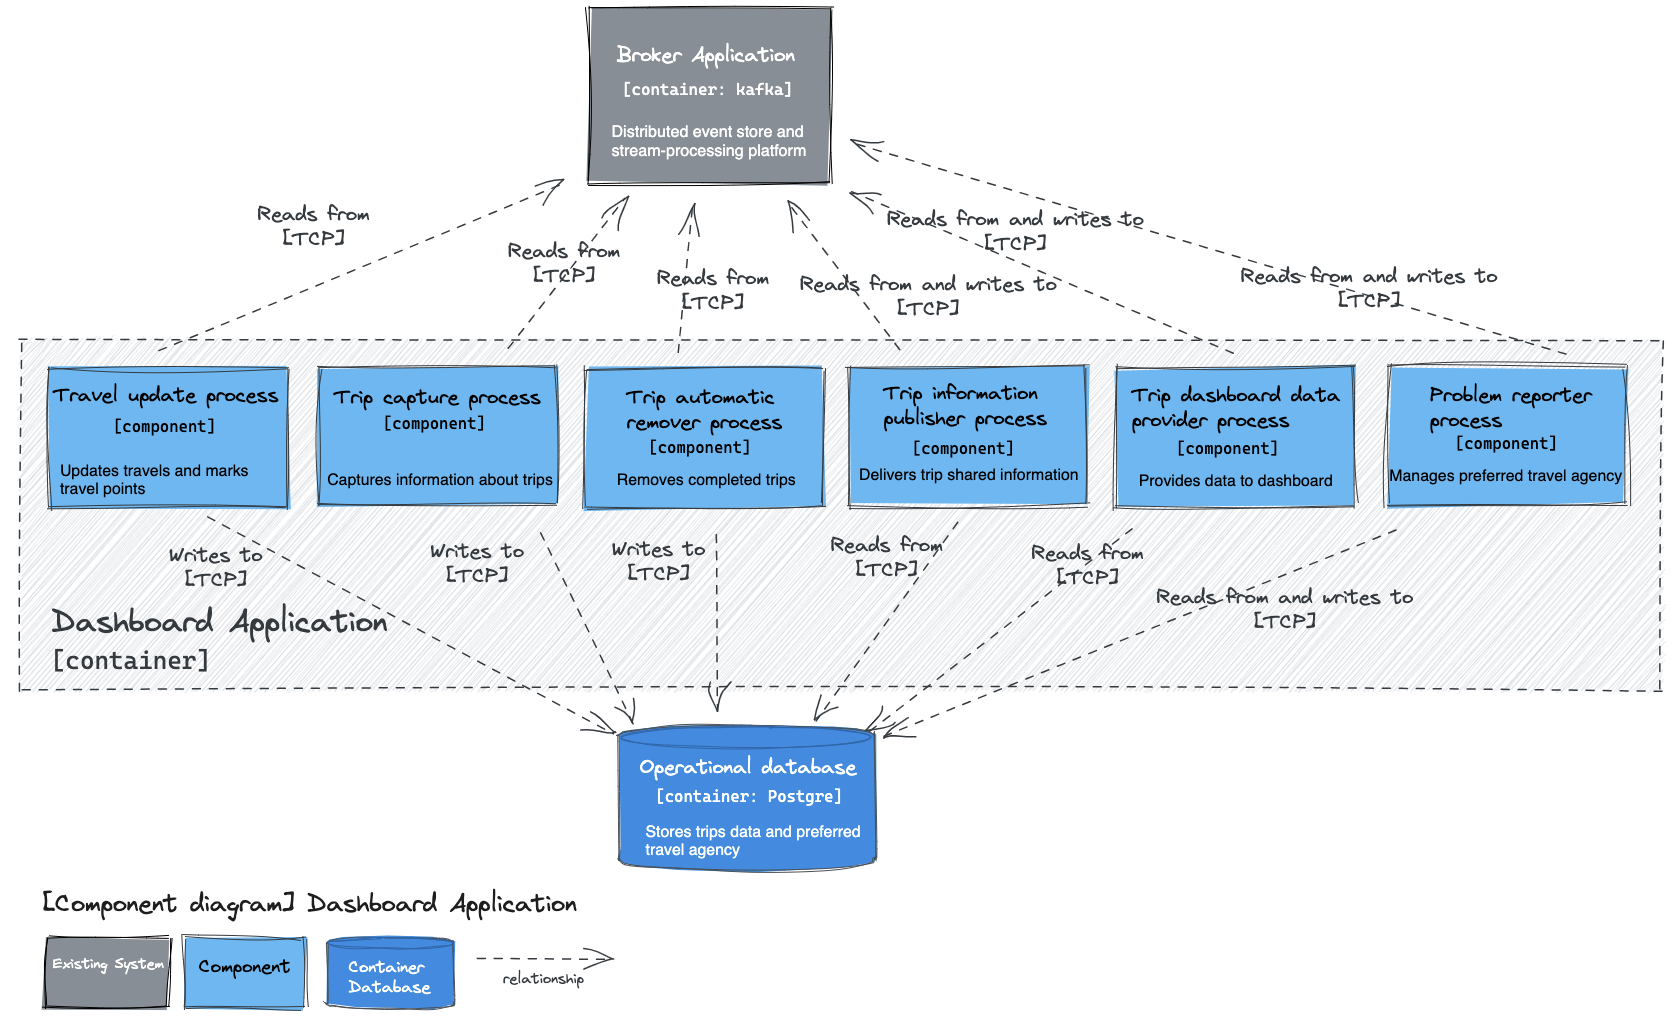
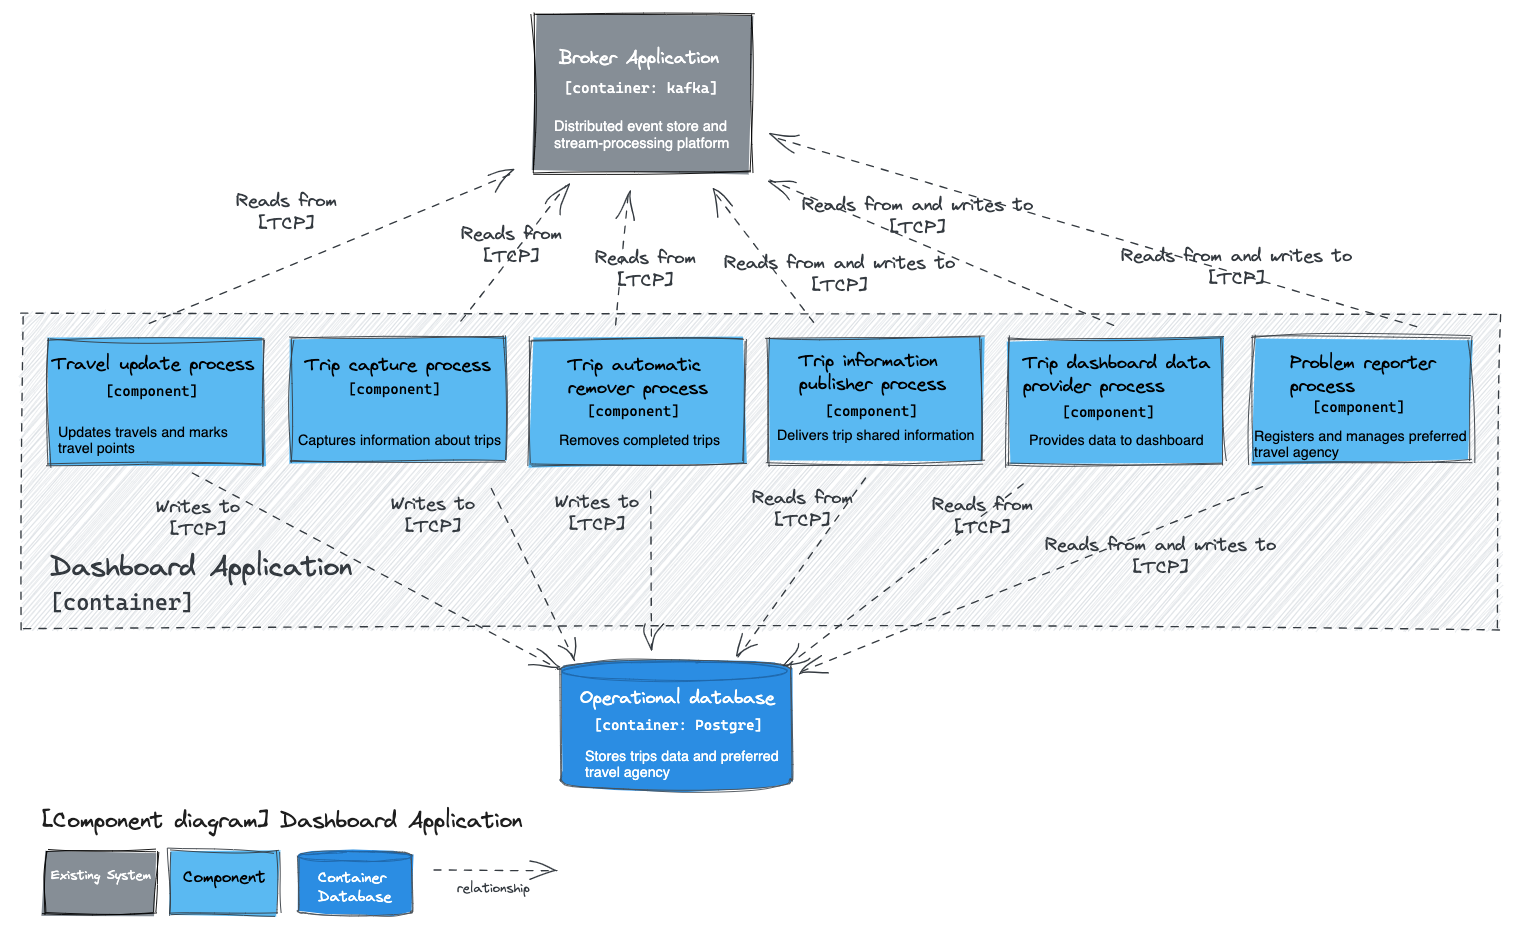
add new ADRs

diff --git a/current/adr/ADR_032_continuous_practices.md b/current/adr/ADR_032_continuous_practices.md
@@ -1,0 +1,53 @@
+# Title
+
+Continuous practices
+
+## Status
+
+**accepted**
+
+## Context
+
+[description of the problem and alternative solutions available (documentation)]
+
+Continuous practices are very important nowadays in software development process.  
+
+**Continuous integration**  
+
+Developers practicing continuous integration merge their changes back to the main branch as often as possible. The developer's changes are validated by creating a build and running automated tests against the build. By doing so, you avoid integration challenges that can happen when waiting for release day to merge changes into the release branch.  
+
+Continuous integration puts a great emphasis on testing automation to check that the application is not broken whenever new commits are integrated into the main branch.  
+
+**Continuous delivery**
+
+It is an extension of continuous integration since it automatically deploys all code changes to a testing and/or production environment after the build stage. On top of automated testing, you have an automated release process and you can deploy your application any time by clicking a button.  
+
+In theory, with continuous delivery, you can decide to release daily, weekly, fortnightly, or whatever suits your business requirements. However, if you truly want to get the benefits of continuous delivery, you should deploy to production as early as possible to make sure that you release small batches that are easy to troubleshoot in case of a problem.  
+
+**Continuous deployment**
+
+Continuous deployment goes one step further than continuous delivery. With this practice, every change that passes all stages of your production pipeline is released to your customers. There's no human intervention, and only a failed test will prevent a new change to be deployed to production.  
+
+Continuous deployment is an excellent way to accelerate the feedback loop with your customers and take pressure off the team as there isn't a "release day" anymore. Developers can focus on building software, and they see their work go live minutes after they've finished working on it.  
+
+Along with continuous integration and continuous delivery (CI/CD), companies need to practice continuous application performance testing to fully realize the benefits of DevOps. Proper instrumentation is crucial to ensuring you are collecting rock-solid metric data, and having a repeatable process for collecting is something that will benefit you regardless of how you are finding correlation.
+
+
+## Decision
+
+We have decided to apply continuous practices to help developers in their day-to-day work and help business to get feedback from end user/customers as fast as possible.  
+
+Agile approach gives the project team a lot of benefits:  
+* increased value proposition - offer an increased value proposition compared to traditional software development methods. It is possible by adding visibility, adaptability of business value and risk throughout the development process,  
+* faster product delivery (faster time to market) - allows products to be rolled out quickly and changes to be easily made at any point during the development process,  
+* flexibility - the incremental nature of Agile software development means that projects are completed in shorter sprints, making them more manageable, which brings flexibility to adopt changes if needed,  
+* risk reduction - prioritize and organize the backlog of stories according to the customer’s vision well in advance,  
+* superior quality - cross-functional and self-organizing teams which share ownership and keep constant communication, which ultimately reduces technical debt, i.e., the cost of the additional rework.
+
+Distributed applications consisting of many elements that are independent execution units require tools supporting the process of continuous building, testing and deployment to achieve high agility of the application development process. Providing small changes more often significantly improves user experience and allows you to test their reactions to new functionalities, which is very valuable in the case of an agile approach.
+
+## Consequences
+
+Requires the use of additional tools and adequate work organization, but the benefits from them are priceless for the project.
+
+[Go back](./README.md)

diff --git a/current/adr/ADR_024_decomposition_analytical_domain.md b/current/adr/ADR_024_decomposition_analytical_domain.md
@@ -1,0 +1,43 @@
+# Title
+
+Analytical domain
+
+## Status
+
+**accepted**
+
+## Context
+
+Separation of concerns is a principle used in programming to separate an application into units, with minimal overlapping between the functions of the individual units. The separation of concerns is achieved using modularization, encapsulation and arrangement in software layers.  
+
+## Decision
+
+The analytical domain was distinguished from the functional requirements for the application.  
+Analytical domain is different it its nature from operational tasks. Another approach and tools are required to reach its goals.  
+The team working on these tools need to have unique skills.  
+Processing analytical data is characterized by unique needs regarding the resources used.  
+
+Analyzing the functional requirements, we distinguished the following components included in the domain:  
+* analytical data capture process - is responsible for analytical data capture from trips,  
+* report provider process - is responsible for reports filtering criteria storing and generated reports metadata providing,  
+* report generator - is responsible for generating end-of-year summary reports,  
+* analytical data provider process - is responsible for providing analytical data to external systems (the application's primary source of income).  
+
+All of the distinguished components operates on the same analytical database which stores analytical data about trips and optional filtering report criteria for traveler.  
+
+They are all grouped in one independently deployable unit but are ready to perform next decomposition after learning more about the business domain and performing first performance tests.  
+
+Each of the recognised components can be separated and transferred to independently deployable component but we don't want to over-architect the solution up-front.  
+
+## Consequences
+
+The independently deployable component will need to be managed and orchestrated.  
+
+### Resources:
+
+#### Component diagram
+
+![Dynamic diagram](https://github.com/ExtravaganzaTeam/KATAS-2023/blob/main/current/architecture/analytical_app_component.png "a title")  
+
+
+[Go back](./README.md)

diff --git a/current/adr/ADR_025_decomposition_dashboard_domain.md b/current/adr/ADR_025_decomposition_dashboard_domain.md
@@ -1,0 +1,43 @@
+# Title
+
+Dashboard domain
+
+## Status
+
+**accepted**
+
+## Context
+
+Separation of concerns is a principle used in programming to separate an application into units, with minimal overlapping between the functions of the individual units. The separation of concerns is achieved using modularization, encapsulation and arrangement in software layers.  
+
+## Decision
+
+The analytical domain was distinguished from the functional requirements for the application.  
+It is organized around trips data processing.  
+
+Analyzing the functional requirements, we distinguished the following components included in the domain:  
+* travel update process - is responsible for updating travels data and marks travel points,  
+* trip capture process - is responsible for capturing information about trips,  
+* trip automatic remover process - is responsible for removing completed trips,  
+* trip information publisher proces - is responsible for preparing and delivering trip shared information,  
+* trip dashboard data provider process - is responsible for providing data to dashboard the traveler can see on his device or in web browser,  
+* problem reporter process - is responsible for registering and managing preferred travel agency telephone number.  
+
+All of the distinguished components operates on the same operational database which stores trips data and preferred travel agency telephone number in one, separate, database schema.
+
+They are all grouped in one independently deployable unit but are ready to perform next decomposition after learning more about the business domain and performing first performance tests.  
+
+Each of the recognised components can be separated and transferred to independently deployable component but we don't want to over-architect the solution up-front.  
+
+## Consequences
+
+The independently deployable component will need to be managed and orchestrated.  
+
+### Resources:
+
+#### Component diagram
+
+![Dynamic diagram](https://github.com/ExtravaganzaTeam/KATAS-2023/blob/main/current/architecture/dashboard_app_component.png "a title")  
+
+
+[Go back](./README.md)

diff --git a/current/adr/ADR_027_decomposition_trip_travel_source_domain.md b/current/adr/ADR_027_decomposition_trip_travel_source_domain.md
@@ -1,0 +1,42 @@
+# Title
+
+Trip travel source domain
+
+## Status
+
+**accepted**
+
+## Context
+
+Separation of concerns is a principle used in programming to separate an application into units, with minimal overlapping between the functions of the individual units. The separation of concerns is achieved using modularization, encapsulation and arrangement in software layers.  
+
+## Decision
+
+The trip travel source domain was distinguished from the functional requirements for the application.  
+
+Analyzing the functional requirements, we distinguished the following components included in the domain:  
+* travel system process - is responsible for processing requests and responses from external travel systems with which the application is to integrate,  
+* SABRE connector - is responsible for integration with SABRE system interface,  
+* APOLLO connector - is responsible for integration with APOLLO system interface,  
+* travel agency connector - is responsible for integration with the agency's existing airline, hotel, and car rental system interface.  
+
+The adopted solution makes it easier to attach new data sources and remove existing ones by adding a new or removing an existing connector component.  
+
+Only the travel system process component operates on operational database to store travel systems sources to be scanned for traveler. The domain has its own database schema.  
+
+The domain components are all grouped in one independently deployable unit but are ready to perform next decomposition after learning more about the business domain and performing first performance tests.  
+
+Each of the recognised components can be separated and transferred to independently deployable component but we don't want to over-architect the solution up-front.  
+
+## Consequences
+
+The independently deployable component will need to be managed and orchestrated.  
+
+### Resources:
+
+#### Component diagram
+
+![Dynamic diagram](https://github.com/ExtravaganzaTeam/KATAS-2023/blob/main/current/architecture/trip_travel_source_connector_app_component.png "a title")  
+
+
+[Go back](./README.md)

diff --git a/current/adr/ADR_026_decomposition_notification_domain.md b/current/adr/ADR_026_decomposition_notification_domain.md
@@ -1,0 +1,39 @@
+# Title
+
+Notification domain
+
+## Status
+
+**accepted**
+
+## Context
+
+Separation of concerns is a principle used in programming to separate an application into units, with minimal overlapping between the functions of the individual units. The separation of concerns is achieved using modularization, encapsulation and arrangement in software layers.  
+
+## Decision
+
+The notification domain was distinguished from the functional requirements for the application.  
+
+Analyzing the functional requirements, we distinguished the following components included in the domain:  
+* notification automatic remover - is responsible for removing notification automaticly after configurable time e.g. 10 days. Notifications should be removed automatically when traveler did not receive them within the time specified in the configuration,
+* travel change capture process - is responsible for storing and removing notifications when the specified events occured in system,  
+* travel change notifier process - is responsible for instant notification about travel changes. It returns notifications after user application starts and reloads as well.  
+
+All of the distinguished components operates on the same operational database which stores notifications.  
+
+They are all grouped in one independently deployable unit but are ready to perform next decomposition after learning more about the business domain and performing first performance tests.  
+
+Each of the recognised components can be separated and transferred to independently deployable component but we don't want to over-architect the solution up-front.  
+
+## Consequences
+
+The independently deployable component will need to be managed and orchestrated.  
+
+### Resources:
+
+#### Component diagram
+
+![Dynamic diagram](https://github.com/ExtravaganzaTeam/KATAS-2023/blob/main/current/architecture/notification_app_component.png "a title")  
+
+
+[Go back](./README.md)

diff --git a/current/adr/ADR_023_decomposition_synchronization_domain.md b/current/adr/ADR_023_decomposition_synchronization_domain.md
@@ -1,0 +1,25 @@
+# Title
+
+Synchronization domain
+
+## Status
+
+**accepted**
+
+## Context
+
+Separation of concerns is a principle used in programming to separate an application into units, with minimal overlapping between the functions of the individual units. The separation of concerns is achieved using modularization, encapsulation and arrangement in software layers.
+
+## Decision
+
+The synchronization domain was separated from the functional requirements of the application.  
+Synchronization tasks are very specific to deployment infrastructure.  
+
+The separation of concerns helps development teams to distribute, plan, and manage work effectively.  
+
+## Consequences
+
+The independently deployable component will need to be managed and orchestrated.  
+
+
+[Go back](./README.md)

diff --git a/current/adr/ADR_028_decomposition_social_media_domain.md b/current/adr/ADR_028_decomposition_social_media_domain.md
@@ -1,0 +1,29 @@
+# Title
+
+[short noun phrase]
+
+## Status
+
+[proposed, accepted, superseded]
+
+## Context
+
+[description of the problem and alternative solutions available (documentation)]
+
+## Decision
+
+[decision and justification (the “why”)]
+
+## Consequences
+
+[trade-offs and impact of decision]
+
+
+### Resources:
+
+#### Component diagram
+
+![Dynamic diagram](https://github.com/ExtravaganzaTeam/KATAS-2023/blob/main/current/architecture/social_media_publisher_app_component.png "a title")  
+
+
+[Go back](./README.md)

diff --git a/current/adr/ADR_029_decomposition_trip_email_source_domain.md b/current/adr/ADR_029_decomposition_trip_email_source_domain.md
@@ -1,0 +1,29 @@
+# Title
+
+[short noun phrase]
+
+## Status
+
+[proposed, accepted, superseded]
+
+## Context
+
+[description of the problem and alternative solutions available (documentation)]
+
+## Decision
+
+[decision and justification (the “why”)]
+
+## Consequences
+
+[trade-offs and impact of decision]
+
+
+### Resources:
+
+#### Component diagram
+
+![Dynamic diagram](https://github.com/ExtravaganzaTeam/KATAS-2023/blob/main/current/architecture/trip_e-mail_source_app_component.png "a title")  
+
+
+[Go back](./README.md)

diff --git a/current/adr/ADR_030_decomposition_mobile_ui_domain.md b/current/adr/ADR_030_decomposition_mobile_ui_domain.md
@@ -1,0 +1,29 @@
+# Title
+
+[short noun phrase]
+
+## Status
+
+[proposed, accepted, superseded]
+
+## Context
+
+[description of the problem and alternative solutions available (documentation)]
+
+## Decision
+
+[decision and justification (the “why”)]
+
+## Consequences
+
+[trade-offs and impact of decision]
+
+
+### Resources:
+
+#### Component diagram
+
+![Dynamic diagram](https://github.com/ExtravaganzaTeam/KATAS-2023/blob/main/current/architecture/mobile_app_component.png "a title")  
+
+
+[Go back](./README.md)

diff --git a/current/adr/ADR_031_decomposition_web_ui_domain.md b/current/adr/ADR_031_decomposition_web_ui_domain.md
@@ -1,0 +1,29 @@
+# Title
+
+[short noun phrase]
+
+## Status
+
+[proposed, accepted, superseded]
+
+## Context
+
+[description of the problem and alternative solutions available (documentation)]
+
+## Decision
+
+[decision and justification (the “why”)]
+
+## Consequences
+
+[trade-offs and impact of decision]
+
+
+### Resources:
+
+#### Component diagram
+
+![Dynamic diagram](https://github.com/ExtravaganzaTeam/KATAS-2023/blob/main/current/architecture/web_app_component.png "a title")  
+
+
+[Go back](./README.md)
